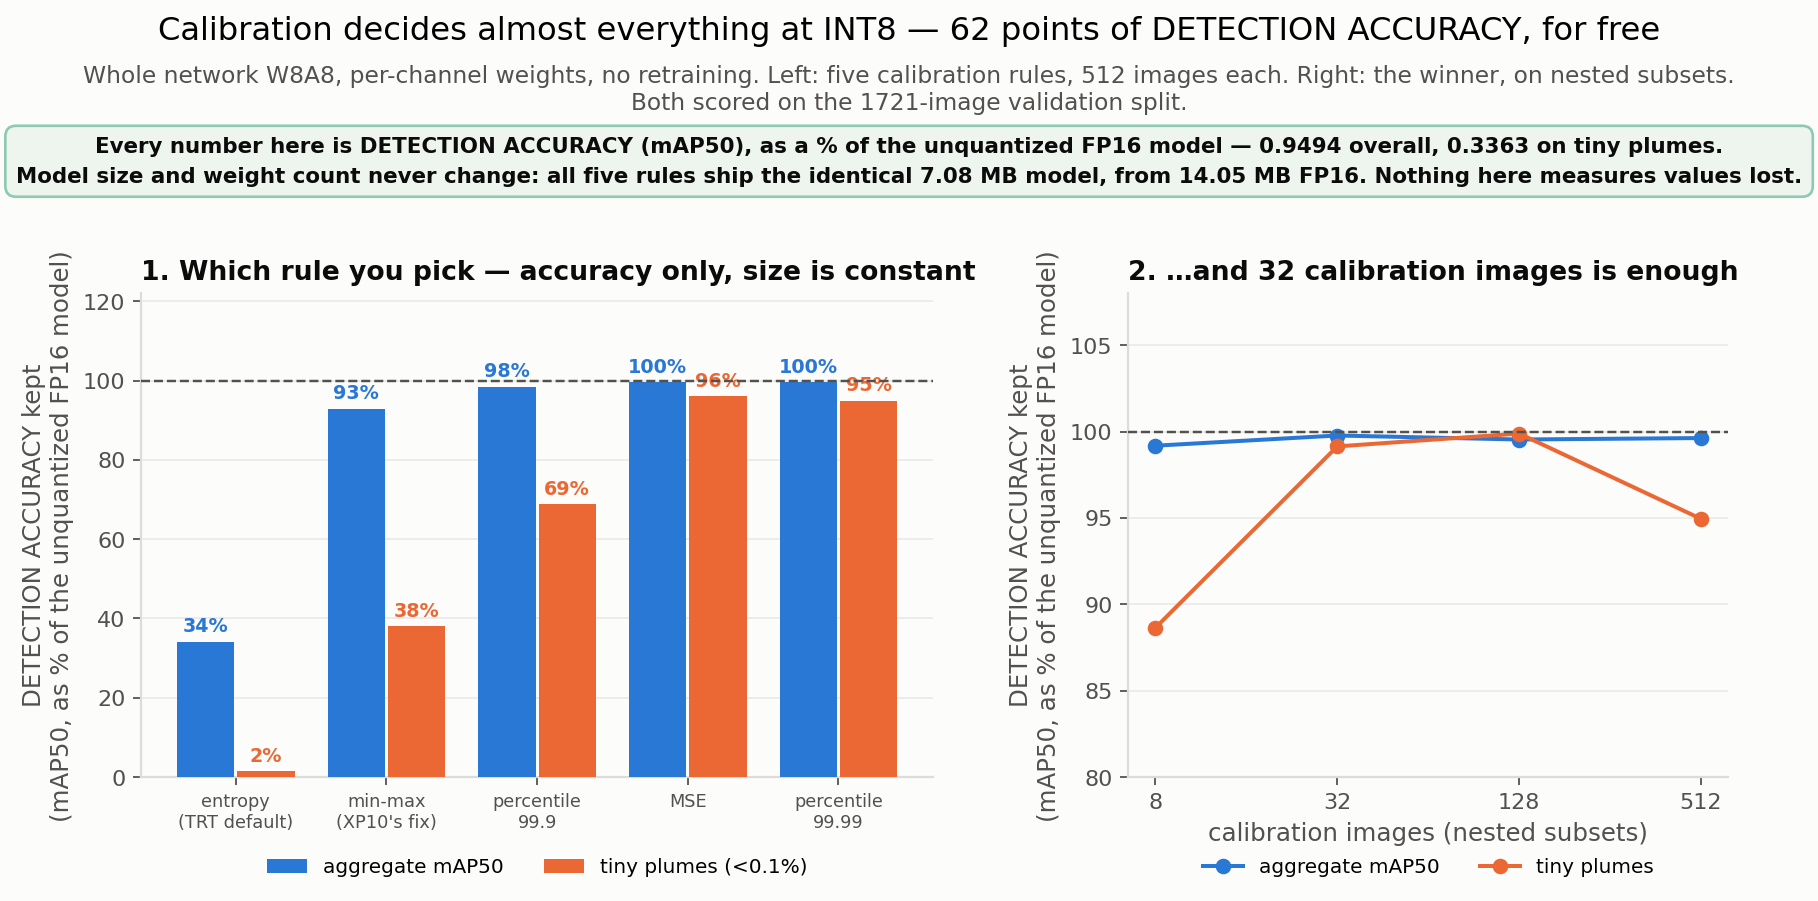
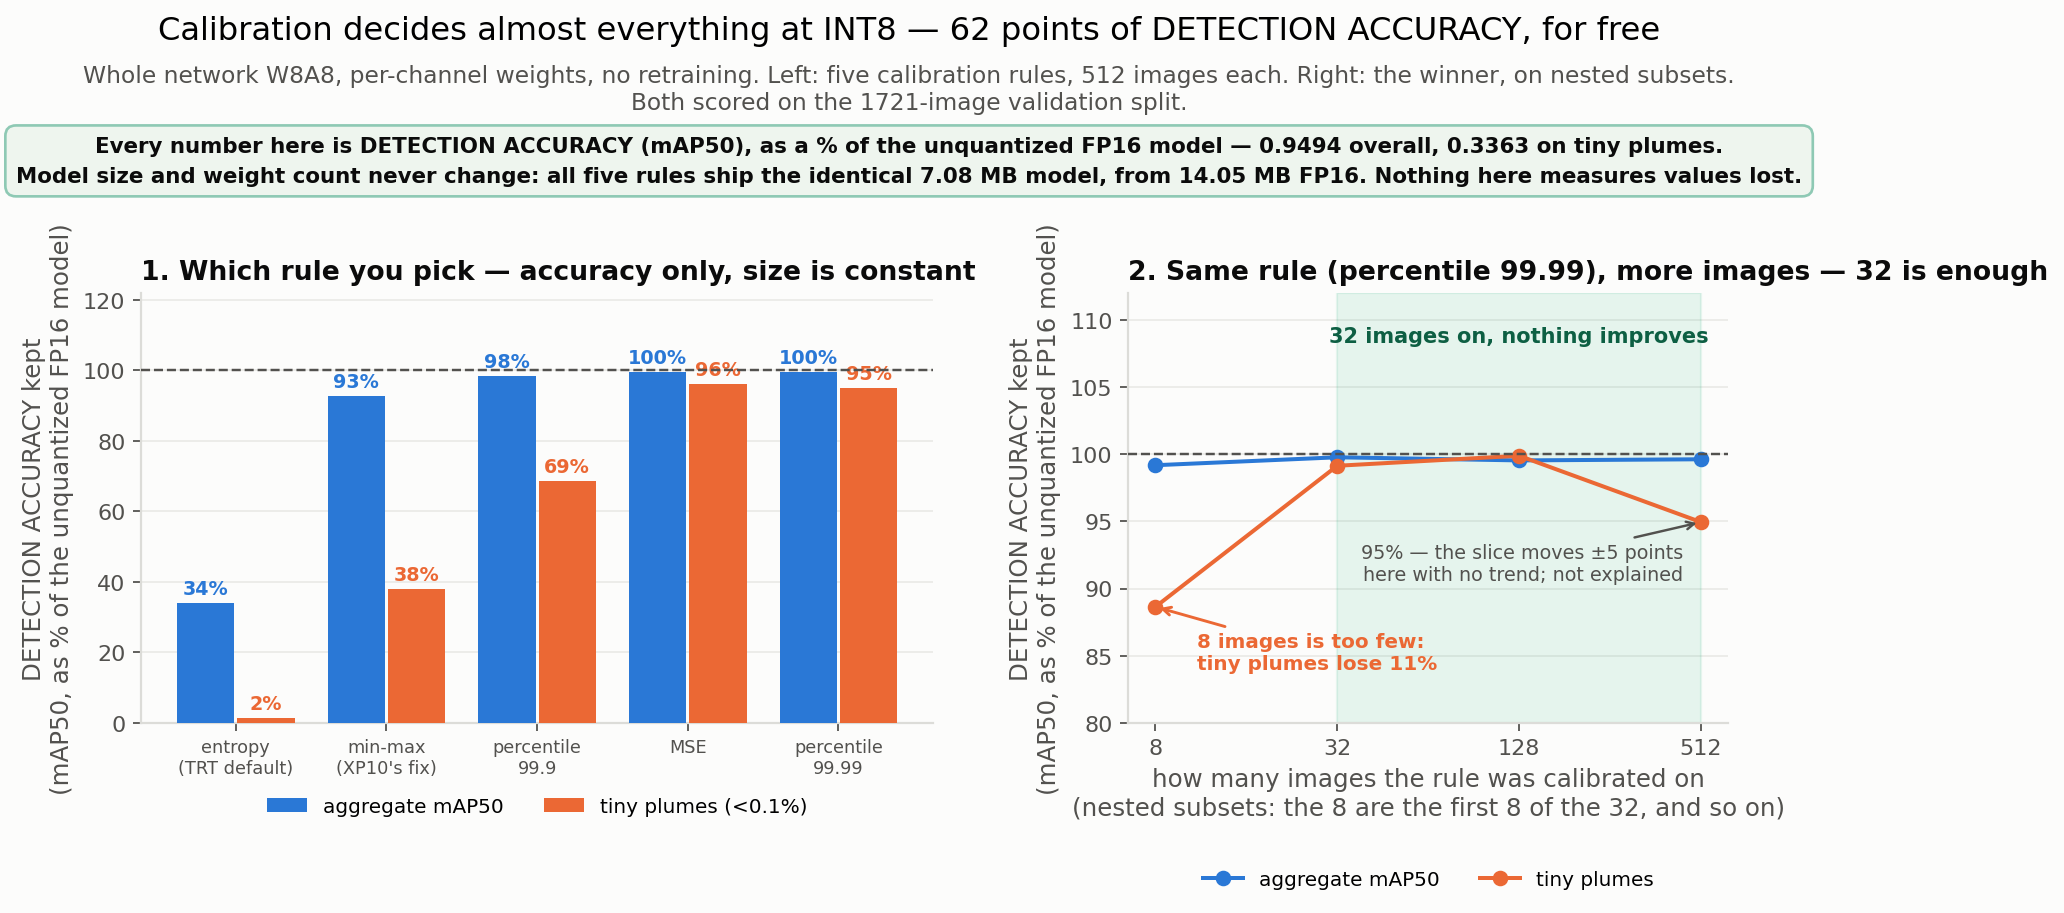
XP7-E2: explain panel 1's outcome, and make panel 2 readable
Panel 1 reads clearly on its own, so the table under it was restating the
figure. Replaced with what the panel means: the ranking, and the four things
that follow from it - the default is catastrophic, aggregate accuracy hides
it, the top two are tied, and being right costs nothing because every arm is
the same 7.08 MB at the same speed.

Panel 2 was unreadable because it never said what varied or why the line
falls at the end. It now says:

  title       "Same rule (percentile 99.99), more images - 32 is enough"
  x-label     "how many images the rule was calibrated on (nested subsets:
               the 8 are the first 8 of the 32, and so on)"
  annotation  "8 images is too few: tiny plumes lose 11%"
  shaded      "32 images on, nothing improves"
  the dip     "95% - the slice moves +/-5 points here with no trend;
               not explained"

The last one matters: 512 scores lower than 128, so this is not a curve that
keeps rising. That is stated as unexplained and left as an open question -
not called noise, because it has not been repeated.

Every figure and table number re-checked against results/raw.

diff --git a/analysis/make_figures.py b/analysis/make_figures.py
@@ -2957,23 +2957,40 @@ def fig_xp07e2(records) -> Path | None:
     sizes = d.get("sizes") or {}
     ns = sorted(int(k) for k in sizes)
     if ns:
-        ax.plot(ns, [sizes[str(n)]["map50"] / base_map * 100 for n in ns],
-                color=style.BLUE, marker="o", lw=1.8, zorder=3, label="aggregate mAP50")
-        ax.plot(ns, [sizes[str(n)]["tiny_plume"] / base_tiny * 100 for n in ns],
-                color=style.ORANGE, marker="o", lw=1.8, zorder=3, label="tiny plumes")
+        agg_n = [sizes[str(n)]["map50"] / base_map * 100 for n in ns]
+        tin_n = [sizes[str(n)]["tiny_plume"] / base_tiny * 100 for n in ns]
+        # everything from 32 on is flat: shade it so "enough" is visible, not inferred
+        ax.axvspan(32, ns[-1], color=style.AQUA, alpha=0.10, zorder=1)
+        ax.plot(ns, agg_n, color=style.BLUE, marker="o", lw=1.8, zorder=3,
+                label="aggregate mAP50")
+        ax.plot(ns, tin_n, color=style.ORANGE, marker="o", lw=1.8, zorder=3,
+                label="tiny plumes")
         ax.axhline(100, color=style.INK_2, ls="--", lw=1.1, zorder=4)
         ax.set_xscale("log", base=2)
         ax.set_xticks(ns)
         ax.get_xaxis().set_major_formatter(plt.matplotlib.ticker.ScalarFormatter())
-        ax.set_ylim(80, 108)
-    ax.set_xlabel("calibration images (nested subsets)")
+        ax.set_ylim(80, 112)
+        ax.annotate(f"8 images is too few:\ntiny plumes lose {100 - tin_n[0]:.0f}%",
+                    xy=(ns[0], tin_n[0]), xytext=(11, 84), fontsize=9,
+                    color=style.ORANGE, fontweight="bold",
+                    arrowprops=dict(arrowstyle="->", color=style.ORANGE, lw=1.3))
+        ax.text(np.sqrt(32 * ns[-1]), 109.5, "32 images on, nothing improves",
+                ha="center", va="top", fontsize=9.4, color="#0d5f43", fontweight="bold")
+        ax.annotate(f"{tin_n[-1]:.0f}% — the slice moves ±5 points\nhere with no trend; "
+                    "not explained",
+                    xy=(ns[-1], tin_n[-1]), xytext=(-8, -26), textcoords="offset points",
+                    ha="right", fontsize=8.6, color=style.INK_2,
+                    arrowprops=dict(arrowstyle="->", color=style.INK_2, lw=1.1))
+    ax.set_xlabel("how many images the rule was calibrated on\n"
+                  "(nested subsets: the 8 are the first 8 of the 32, and so on)")
     ax.set_ylabel("DETECTION ACCURACY kept\n(mAP50, as % of the unquantized FP16 model)")
-    ax.set_title("2. …and 32 calibration images is enough", fontsize=12, loc="left")
-    ax.legend(loc="upper center", bbox_to_anchor=(0.5, -0.13), ncol=2,
+    ax.set_title("2. Same rule (percentile 99.99), more images — 32 is enough",
+                 fontsize=12, loc="left")
+    ax.legend(loc="upper center", bbox_to_anchor=(0.5, -0.30), ncol=2,
               fontsize=9, frameon=False)
     style.tidy(ax)
 
-    fig.subplots_adjust(top=0.74, bottom=0.20)
+    fig.subplots_adjust(top=0.74, bottom=0.26)
     return save(fig, "xp07e2_calibration.png")
 
 

diff --git a/experiments/xp07_quant/README.md b/experiments/xp07_quant/README.md
@@ -341,24 +341,38 @@ out of the tensors alone, so it is a property of this network's activations and 
 the exact number XP10 decoded from TensorRT's own calibration cache (0.0035237 × 127). The
 simulation predicts the engine rather than approximating it.
 
-**Results** — unquantized: **0.9494** mAP50, **0.3363** tiny, **14.05 MB**. Every "kept" column
-below is **detection accuracy** as a percentage of those two baselines.
+**Results** — unquantized FP16: **0.9494** mAP50 overall, **0.3363** on tiny plumes, **14.05 MB**.
+Every percentage below is **detection accuracy** against those two baselines.
 
 ![Calibration decides almost everything at INT8](../../results/figures/xp07e2_calibration.png)
 
-| method | size | mAP50 | kept | tiny | kept | input range |
-|---|---:|---:|---:|---:|---:|---|
-| unquantized FP16 | 14.05 MB | 0.9494 | 100% | 0.3363 | 100% | — |
-| **percentile 99.99** | 7.08 MB | **0.9458** | 99.6% | **0.3193** | **94.9%** | 0–0.9998 |
-| MSE | 7.08 MB | 0.9451 | 99.5% | 0.3232 | 96.1% | 0–0.9998 |
-| percentile 99.9 | 7.08 MB | 0.9345 | 98.4% | 0.2312 | 68.7% | 0–0.9998 |
-| **min-max** — *XP10's fix* | 7.08 MB | 0.8817 | 92.9% | **0.1282** | **38.1%** | 0–1.0000 |
-| entropy — *TRT's default* | 7.08 MB | 0.3243 | 34.2% | 0.0052 | 1.5% | **0–0.4475** |
+**Panel 1 — the rule you pick is the whole result.** Five arms, one config string apart. Same
+weights, same 7.08 MB, same speed. Read the orange bars, because the tiny-plume slice is where the
+rules separate:
 
-- **The hypothesis is wrong: the spread is 0.62 mAP50**, larger than pruning criterion, resolution,
-  or model choice anywhere in this series.
-- **Every arm ships an identical 7.08 MB model.** The method is a config string — the spread is
-  bought for **zero bytes, zero speed, zero training time**.
+| the rule | overall | tiny plumes | in plain terms |
+|---|---:|---:|---|
+| **percentile 99.99** | **0.9458** (99.6%) | **0.3193** (94.9%) | **the winner** — costs 5% of the hardest slice |
+| MSE | 0.9451 (99.5%) | 0.3232 (96.1%) | tied with it; either is a safe default |
+| percentile 99.9 | 0.9345 (98.4%) | 0.2312 (68.7%) | one decimal place costs **26 points** of tiny |
+| min-max *(XP10's fix)* | 0.8817 (92.9%) | 0.1282 (38.1%) | loses **62%** of tiny plumes |
+| entropy *(TensorRT's default)* | 0.3243 (34.2%) | 0.0052 (1.5%) | **not a detector any more** |
+
+Four things follow from that panel alone:
+
+1. **The default is catastrophic.** Build an INT8 engine without choosing, and TensorRT picks
+   entropy: 34% of overall accuracy, 1.5% on tiny plumes. Not degraded — **broken**.
+2. **Overall accuracy hides it.** min-max looks acceptable at 93% overall; on tiny plumes it is at
+   38%. Anyone reporting one aggregate number would ship it.
+3. **The top two are free and tied.** percentile 99.99 and MSE both land within 5% of FP16 on the
+   hardest slice. There is no reason to accept anything worse.
+4. **It costs nothing to be right.** Every arm is the same 7.08 MB model at the same speed. The
+   62-point spread is bought with a config string — no retraining, no extra bytes, no latency.
+
+**Against the hypothesis, and the rest of the series:**
+
+- **The hypothesis is wrong.** The spread across sane methods is **0.62 mAP50** — larger than
+  pruning criterion, resolution, or model choice anywhere in this series.
 - **XP10's prescription is wrong.** It compared entropy against min-max — the two *ends* of the
   sweep — and stopped. Min-max costs **62%** of tiny-plume accuracy; percentile 99.99 costs **5%**.
 - **Both ends fail for opposite reasons.** On `model.24.m.0`: entropy picks 0–**11.1** when the
@@ -367,7 +381,11 @@ below is **detection accuracy** as a percentage of those two baselines.
   layers min-max is **2.7x wider on the median**, up to 8.6x, wider by >2x on **56 of 60**.
 - **The two methods agree on the input tensor** (1.0000 vs 0.9998). XP10's diagnosis was about
   entropy and the input; the min-max problem is in the internal activations.
-- **Size is worth nothing past 32 images**: 8 → 99.2%, 32 → 99.8%, 512 → 99.6%.
+- **Panel 2 — how much data calibration needs: 32 images.** Same rule throughout, only the image
+  count changes. 8 is too few (tiny plumes 88.6%); 32 reaches 99.1% and **nothing after that
+  improves** (128 → 99.9%, 512 → 94.9%). The 512 point is *lower* than 128, so this is not a curve
+  that keeps rising — past 32 the tiny slice moves by ~5 points with no trend. That wobble is
+  unexplained and is listed as an open question, not called noise: it has not been repeated.
 
 **Where the 7.08 MB goes** — since "INT8 halves the model" deserves itemising:
 
